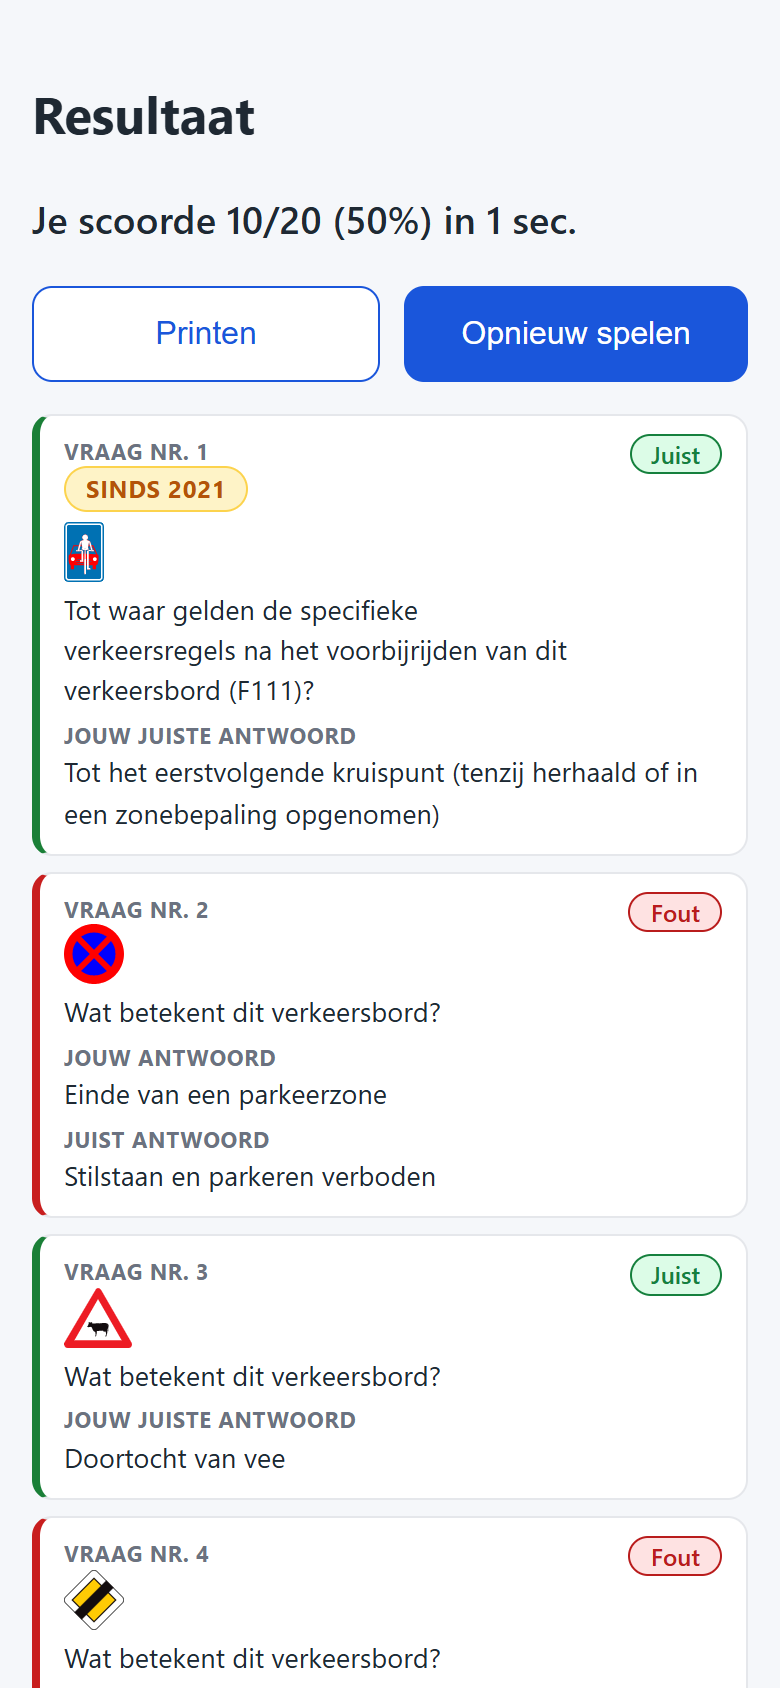
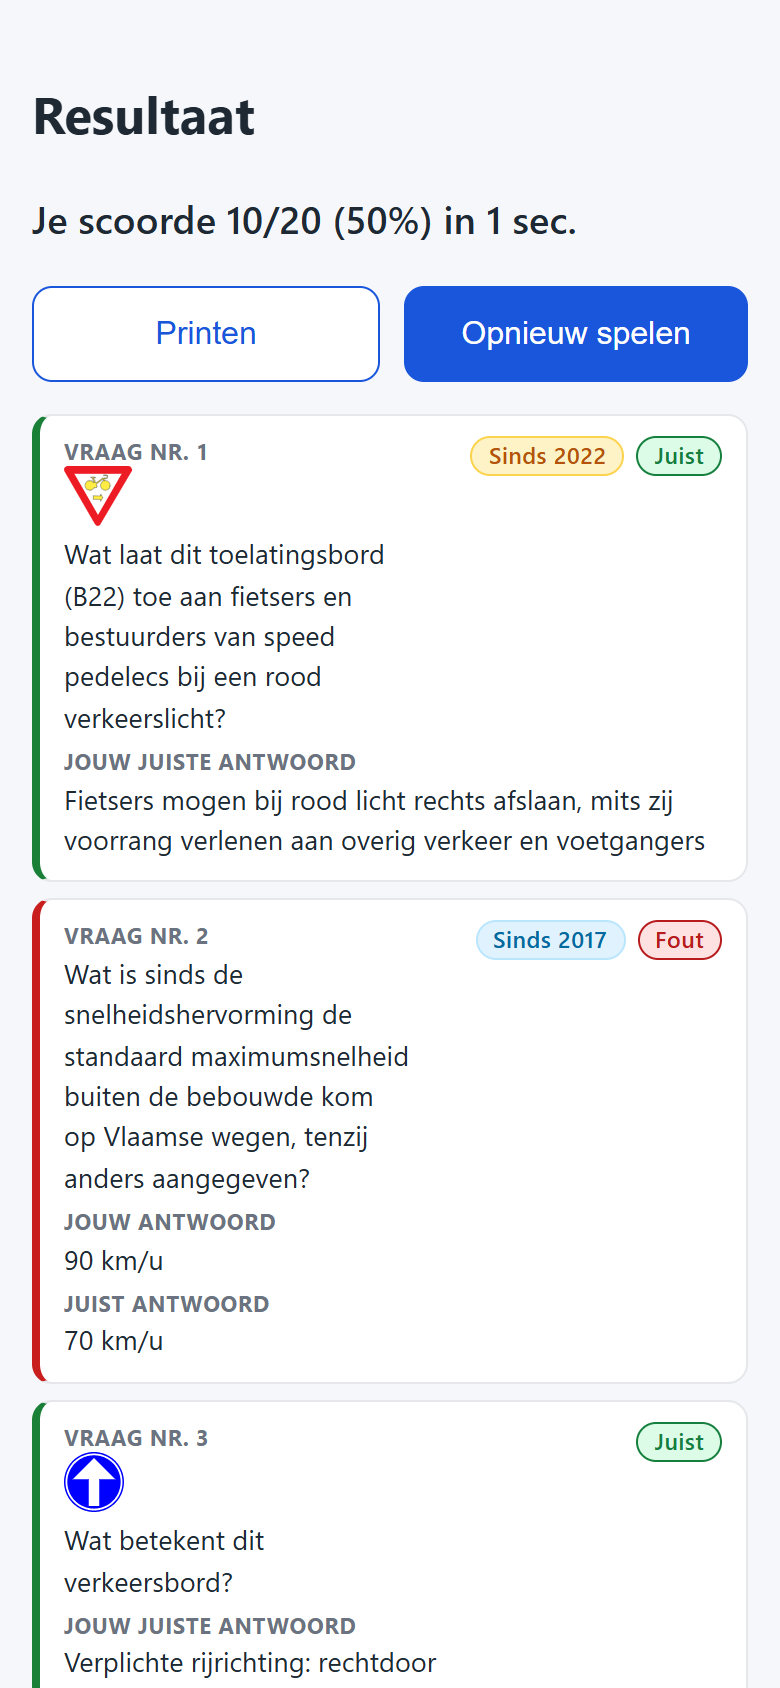
Harmonized amendment badge sizing and paired them to the left of result badges on result cards.

diff --git a/js/app.js b/js/app.js
@@ -463,14 +463,8 @@ function optionCell(question, index) {
 }
 
 function questionCell(question) {
-  const badgeInfo = getSinceBadge(question.since);
-  const badgeHtml = badgeInfo ? `<span class="${badgeInfo.className}">${badgeInfo.text}</span>` : "";
   const imgUrl = question.image || question.sign;
   const signImg = imgUrl ? `<img src="${imgUrl}" alt="${question.image ? "Situatie" : "Bord"}" class="table-thumb">` : "";
-
-  if (badgeInfo) {
-    return `<div class="table-question-wrap">${badgeHtml}<div>${signImg}${question.question}</div></div>`;
-  }
   return signImg ? `${signImg}${question.question}` : question.question;
 }
 
@@ -512,12 +506,15 @@ function showResult() {
     const tr = document.createElement("tr");
     tr.className = a.correct ? "correct-row" : "wrong-row";
     const userAnsLabel = a.correct ? "Jouw Juiste Antwoord" : "Jouw antwoord";
+    const badgeInfo = getSinceBadge(a.since);
+    const sinceBadgeHtml = badgeInfo ? `<span class="${badgeInfo.className}">${badgeInfo.text}</span>` : "";
+    const resultBadgeHtml = `<span class="badge-result ${a.correct ? "badge-result-correct" : "badge-result-wrong"}">${a.correct ? "Juist" : "Fout"}</span>`;
     tr.innerHTML = `
       <td class="col-num" data-label="Vraag nr.">${i + 1}</td>
       <td class="col-question" data-label="Vraag Nr. ${i + 1}">${questionCell(a)}</td>
       <td class="col-user-ans" data-label="${userAnsLabel}">${optionCell(a, a.chosenIndex)}</td>
       <td class="col-correct-ans" data-label="Juist antwoord">${optionCell(a, a.correctIndex)}</td>
-      <td class="col-result"><span class="badge-result ${a.correct ? "badge-result-correct" : "badge-result-wrong"}">${a.correct ? "Juist" : "Fout"}</span></td>
+      <td class="col-result"><div class="result-badges-wrap">${sinceBadgeHtml}${resultBadgeHtml}</div></td>
     `;
     el.resultTableBody.appendChild(tr);
   });

diff --git a/css/style.css b/css/style.css
@@ -261,13 +261,13 @@ button {
 .badge-since {
   display: inline-flex;
   align-items: center;
-  font-size: 0.75rem;
-  font-weight: 700;
-  letter-spacing: 0.03em;
-  padding: 3px 10px;
+  justify-content: center;
+  font-size: 0.72rem;
+  font-weight: 600;
+  letter-spacing: 0.02em;
+  padding: 2px 8px;
   border-radius: 9999px;
   line-height: 1.2;
-  text-transform: uppercase;
   white-space: nowrap;
 }
 
@@ -556,14 +556,22 @@ button {
 .tag-correct { color: var(--color-correct); font-weight: 600; }
 .tag-wrong { color: var(--color-wrong); font-weight: 600; }
 
+.result-badges-wrap {
+  display: inline-flex;
+  align-items: center;
+  gap: 6px;
+  white-space: nowrap;
+}
+
 .badge-result {
   display: inline-flex;
   align-items: center;
   justify-content: center;
-  font-size: 0.75rem;
+  font-size: 0.72rem;
   font-weight: 600;
+  letter-spacing: 0.02em;
   line-height: 1.2;
-  padding: 2px 10px;
+  padding: 2px 8px;
   border-radius: 9999px;
   white-space: nowrap;
 }
@@ -606,7 +614,7 @@ button {
   #result-table tr.correct-row { border-left-color: var(--color-correct); }
   #result-table tr.correct-row .col-correct-ans { display: none; }
   #result-table .col-num { display: none; }
-  #result-table .col-question { padding-right: 68px; }
+  #result-table .col-question { padding-right: 155px; }
   #result-table .col-result {
     position: absolute;
     top: 8px;

diff --git a/tests/test_ux_layout.py b/tests/test_ux_layout.py
@@ -47,6 +47,18 @@ class TestUXLayout(unittest.TestCase):
         self.assertIn("explanation-link-pill", js, "app.js must generate explanation-link-pill")
         self.assertIn("updateNextButtonText", js, "app.js must define updateNextButtonText")
 
+    def test_paired_result_badges_and_pill_sizing(self) -> None:
+        """Validates that since badges and result badges share sizing and are paired in result cards."""
+        self.assertTrue(JS_PATH.exists(), "app.js must exist")
+        self.assertTrue(CSS_PATH.exists(), "style.css must exist")
+        js = JS_PATH.read_text(encoding="utf-8")
+        css = CSS_PATH.read_text(encoding="utf-8")
+
+        self.assertIn("result-badges-wrap", js, "app.js must wrap result badges in result-badges-wrap")
+        self.assertIn("${sinceBadgeHtml}${resultBadgeHtml}", js, "app.js must place since badge before result badge")
+        self.assertIn(".result-badges-wrap", css, "style.css must declare .result-badges-wrap")
+        self.assertIn("padding-right: 155px", css, "style.css must reserve padding for paired badges on mobile")
+
 
 if __name__ == "__main__":
     unittest.main()

diff --git a/CHANGELOG.md b/CHANGELOG.md
@@ -14,6 +14,7 @@ A summarized overview of all changes, per version of this project.
 ---
 
 ## v2.0.1-pre
+- FrontEnd: Wetswijzigingslabels geharmoniseerd qua typografie en gekoppeld links van de resultaatlabels op het resultatenoverzicht.
 - Inhoud: Tien praktijkvragen met foto's van verkeerssituaties toegevoegd inclusief ondersteuning voor filteren via queryparameters.
 - FrontEnd: Vraagtype-filter toegevoegd met visuele startmeldingen en responsieve fotoweergave voor praktijksituaties.
 - FrontEnd: Tweepanelen-layout op desktop en scrollvrije mobiele weergave met zwevende actieknop en compacte wetslink geïmplementeerd.

diff --git a/TODO.md b/TODO.md
@@ -9,7 +9,7 @@ An overview of all tasks and their planning.
 > Owner: `[owner: @name]` shown only when active/blocked/needs-review.
 > Dependencies: `[needs: Tnnnn]` shown only when unresolved.
 
-**Next ID:** 0036
+**Next ID:** 0037
 
 ---
 
